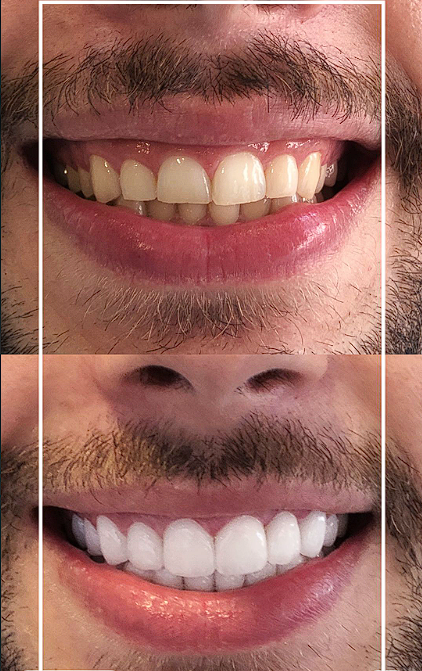
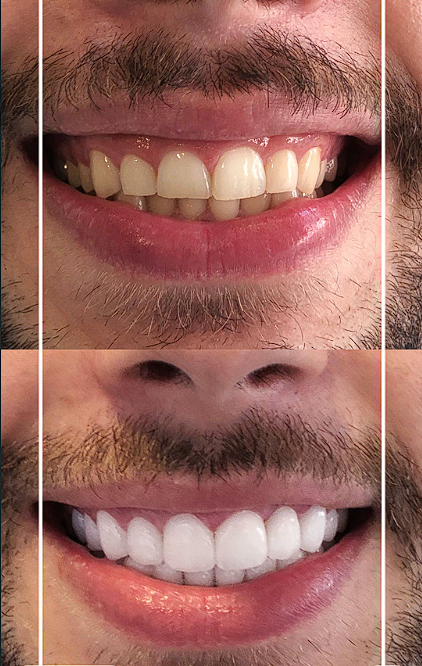
Update membership plan pricing/details and crop smile-transformation photo
- Silver/Gold/Platinum plans updated with new prices and appointment counts
- Added shared plan benefits (joining fee, bitewing x-rays, discount, emergency cover)
- Fixed outdated tiered-discount/priority copy in services.html
- Cropped stray white line from top of smile-transformation.png

diff --git a/index.html b/index.html
@@ -156,7 +156,7 @@
           <span class="text-white/40">•</span>
           <span>Same-day emergency appointments for members</span>
           <span class="text-white/40">•</span>
-          <span>Membership plans from £14.99/month</span>
+          <span>Membership plans from £16/month</span>
           <span class="text-white/40">•</span>
           <span>Rated 4.9★ by our members</span>
           <span class="text-white/40">•</span>
@@ -168,7 +168,7 @@
           <span class="text-white/40">•</span>
           <span>Same-day emergency appointments for members</span>
           <span class="text-white/40">•</span>
-          <span>Membership plans from £14.99/month</span>
+          <span>Membership plans from £16/month</span>
           <span class="text-white/40">•</span>
           <span>Rated 4.9★ by our members</span>
           <span class="text-white/40">•</span>
@@ -247,14 +247,15 @@
         <!-- Silver -->
         <div class="glass-card reveal p-8 flex flex-col">
           <p class="text-xs tracking-[0.2em] uppercase text-blue font-semibold">Silver</p>
-          <p class="mt-3 font-display text-4xl text-navy">£14.99<span class="text-base font-sans font-normal text-ink/50">/month</span></p>
+          <p class="mt-3 font-display text-4xl text-navy">£16<span class="text-base font-sans font-normal text-ink/50">/month</span></p>
           <p class="mt-2 text-sm text-ink/60">Essential preventative care</p>
           <ul class="mt-6 space-y-3 text-sm text-ink/75 flex-1">
-            <li class="flex gap-2.5"><svg width="16" height="16" viewBox="0 0 16 16" fill="none" class="shrink-0 mt-0.5 text-blue"><path d="M3 8.5l3 3 7-7" stroke="currentColor" stroke-width="1.8" stroke-linecap="round" stroke-linejoin="round"/></svg><span>1 dental check-up a year</span></li>
-            <li class="flex gap-2.5"><svg width="16" height="16" viewBox="0 0 16 16" fill="none" class="shrink-0 mt-0.5 text-blue"><path d="M3 8.5l3 3 7-7" stroke="currentColor" stroke-width="1.8" stroke-linecap="round" stroke-linejoin="round"/></svg><span>1 hygienist visit a year</span></li>
-            <li class="flex gap-2.5"><svg width="16" height="16" viewBox="0 0 16 16" fill="none" class="shrink-0 mt-0.5 text-blue"><path d="M3 8.5l3 3 7-7" stroke="currentColor" stroke-width="1.8" stroke-linecap="round" stroke-linejoin="round"/></svg><span>10% off all further treatment</span></li>
-            <li class="flex gap-2.5"><svg width="16" height="16" viewBox="0 0 16 16" fill="none" class="shrink-0 mt-0.5 text-blue"><path d="M3 8.5l3 3 7-7" stroke="currentColor" stroke-width="1.8" stroke-linecap="round" stroke-linejoin="round"/></svg><span>Worldwide dental accident cover</span></li>
-            <li class="flex gap-2.5"><svg width="16" height="16" viewBox="0 0 16 16" fill="none" class="shrink-0 mt-0.5 text-blue"><path d="M3 8.5l3 3 7-7" stroke="currentColor" stroke-width="1.8" stroke-linecap="round" stroke-linejoin="round"/></svg><span>Standard appointment booking</span></li>
+            <li class="flex gap-2.5"><svg width="16" height="16" viewBox="0 0 16 16" fill="none" class="shrink-0 mt-0.5 text-blue"><path d="M3 8.5l3 3 7-7" stroke="currentColor" stroke-width="1.8" stroke-linecap="round" stroke-linejoin="round"/></svg><span>1 hygiene appointment a year</span></li>
+            <li class="flex gap-2.5"><svg width="16" height="16" viewBox="0 0 16 16" fill="none" class="shrink-0 mt-0.5 text-blue"><path d="M3 8.5l3 3 7-7" stroke="currentColor" stroke-width="1.8" stroke-linecap="round" stroke-linejoin="round"/></svg><span>1 check-up appointment a year</span></li>
+            <li class="flex gap-2.5"><svg width="16" height="16" viewBox="0 0 16 16" fill="none" class="shrink-0 mt-0.5 text-blue"><path d="M3 8.5l3 3 7-7" stroke="currentColor" stroke-width="1.8" stroke-linecap="round" stroke-linejoin="round"/></svg><span>£9.50 one-off joining fee</span></li>
+            <li class="flex gap-2.5"><svg width="16" height="16" viewBox="0 0 16 16" fill="none" class="shrink-0 mt-0.5 text-blue"><path d="M3 8.5l3 3 7-7" stroke="currentColor" stroke-width="1.8" stroke-linecap="round" stroke-linejoin="round"/></svg><span>Bitewing x-rays included</span></li>
+            <li class="flex gap-2.5"><svg width="16" height="16" viewBox="0 0 16 16" fill="none" class="shrink-0 mt-0.5 text-blue"><path d="M3 8.5l3 3 7-7" stroke="currentColor" stroke-width="1.8" stroke-linecap="round" stroke-linejoin="round"/></svg><span>10% discount on treatment (excluding implants)</span></li>
+            <li class="flex gap-2.5"><svg width="16" height="16" viewBox="0 0 16 16" fill="none" class="shrink-0 mt-0.5 text-blue"><path d="M3 8.5l3 3 7-7" stroke="currentColor" stroke-width="1.8" stroke-linecap="round" stroke-linejoin="round"/></svg><span>Dental emergency cover, in the UK and worldwide</span></li>
           </ul>
           <a href="contact.html" class="btn btn-outline-navy mt-8 justify-center">Join Silver</a>
         </div>
@@ -263,15 +264,15 @@
         <div class="reveal p-8 flex flex-col rounded-[1.5rem] bg-navy text-cream relative overflow-hidden shadow-navy-lg lg:-translate-y-4">
           <span class="absolute top-0 right-0 bg-brass text-navyDeep text-[0.65rem] font-semibold tracking-[0.1em] uppercase px-4 py-1.5 rounded-bl-xl">Most popular</span>
           <p class="text-xs tracking-[0.2em] uppercase text-brassLight font-semibold">Gold</p>
-          <p class="mt-3 font-display text-4xl text-cream">£24.99<span class="text-base font-sans font-normal text-cream/50">/month</span></p>
+          <p class="mt-3 font-display text-4xl text-cream">£19.60<span class="text-base font-sans font-normal text-cream/50">/month</span></p>
           <p class="mt-2 text-sm text-cream/60">Complete family cover</p>
           <ul class="mt-6 space-y-3 text-sm text-cream/80 flex-1">
-            <li class="flex gap-2.5"><svg width="16" height="16" viewBox="0 0 16 16" fill="none" class="shrink-0 mt-0.5 text-brassLight"><path d="M3 8.5l3 3 7-7" stroke="currentColor" stroke-width="1.8" stroke-linecap="round" stroke-linejoin="round"/></svg><span>2 dental check-ups a year</span></li>
-            <li class="flex gap-2.5"><svg width="16" height="16" viewBox="0 0 16 16" fill="none" class="shrink-0 mt-0.5 text-brassLight"><path d="M3 8.5l3 3 7-7" stroke="currentColor" stroke-width="1.8" stroke-linecap="round" stroke-linejoin="round"/></svg><span>2 hygienist visits a year</span></li>
-            <li class="flex gap-2.5"><svg width="16" height="16" viewBox="0 0 16 16" fill="none" class="shrink-0 mt-0.5 text-brassLight"><path d="M3 8.5l3 3 7-7" stroke="currentColor" stroke-width="1.8" stroke-linecap="round" stroke-linejoin="round"/></svg><span>15% off all further treatment</span></li>
-            <li class="flex gap-2.5"><svg width="16" height="16" viewBox="0 0 16 16" fill="none" class="shrink-0 mt-0.5 text-brassLight"><path d="M3 8.5l3 3 7-7" stroke="currentColor" stroke-width="1.8" stroke-linecap="round" stroke-linejoin="round"/></svg><span>Priority booking within 48 hours</span></li>
-            <li class="flex gap-2.5"><svg width="16" height="16" viewBox="0 0 16 16" fill="none" class="shrink-0 mt-0.5 text-brassLight"><path d="M3 8.5l3 3 7-7" stroke="currentColor" stroke-width="1.8" stroke-linecap="round" stroke-linejoin="round"/></svg><span>1 emergency appointment included</span></li>
-            <li class="flex gap-2.5"><svg width="16" height="16" viewBox="0 0 16 16" fill="none" class="shrink-0 mt-0.5 text-brassLight"><path d="M3 8.5l3 3 7-7" stroke="currentColor" stroke-width="1.8" stroke-linecap="round" stroke-linejoin="round"/></svg><span>Worldwide dental accident cover</span></li>
+            <li class="flex gap-2.5"><svg width="16" height="16" viewBox="0 0 16 16" fill="none" class="shrink-0 mt-0.5 text-brassLight"><path d="M3 8.5l3 3 7-7" stroke="currentColor" stroke-width="1.8" stroke-linecap="round" stroke-linejoin="round"/></svg><span>1 hygiene appointment a year</span></li>
+            <li class="flex gap-2.5"><svg width="16" height="16" viewBox="0 0 16 16" fill="none" class="shrink-0 mt-0.5 text-brassLight"><path d="M3 8.5l3 3 7-7" stroke="currentColor" stroke-width="1.8" stroke-linecap="round" stroke-linejoin="round"/></svg><span>2 check-up appointments a year</span></li>
+            <li class="flex gap-2.5"><svg width="16" height="16" viewBox="0 0 16 16" fill="none" class="shrink-0 mt-0.5 text-brassLight"><path d="M3 8.5l3 3 7-7" stroke="currentColor" stroke-width="1.8" stroke-linecap="round" stroke-linejoin="round"/></svg><span>£9.50 one-off joining fee</span></li>
+            <li class="flex gap-2.5"><svg width="16" height="16" viewBox="0 0 16 16" fill="none" class="shrink-0 mt-0.5 text-brassLight"><path d="M3 8.5l3 3 7-7" stroke="currentColor" stroke-width="1.8" stroke-linecap="round" stroke-linejoin="round"/></svg><span>Bitewing x-rays included</span></li>
+            <li class="flex gap-2.5"><svg width="16" height="16" viewBox="0 0 16 16" fill="none" class="shrink-0 mt-0.5 text-brassLight"><path d="M3 8.5l3 3 7-7" stroke="currentColor" stroke-width="1.8" stroke-linecap="round" stroke-linejoin="round"/></svg><span>10% discount on treatment (excluding implants)</span></li>
+            <li class="flex gap-2.5"><svg width="16" height="16" viewBox="0 0 16 16" fill="none" class="shrink-0 mt-0.5 text-brassLight"><path d="M3 8.5l3 3 7-7" stroke="currentColor" stroke-width="1.8" stroke-linecap="round" stroke-linejoin="round"/></svg><span>Dental emergency cover, in the UK and worldwide</span></li>
           </ul>
           <a href="contact.html" class="btn btn-light mt-8 justify-center">Join Gold</a>
         </div>
@@ -279,16 +280,15 @@
         <!-- Platinum -->
         <div class="glass-card reveal p-8 flex flex-col">
           <p class="text-xs tracking-[0.2em] uppercase text-blue font-semibold">Platinum</p>
-          <p class="mt-3 font-display text-4xl text-navy">£37.99<span class="text-base font-sans font-normal text-ink/50">/month</span></p>
+          <p class="mt-3 font-display text-4xl text-navy">£23.70<span class="text-base font-sans font-normal text-ink/50">/month</span></p>
           <p class="mt-2 text-sm text-ink/60">The complete, unhurried experience</p>
           <ul class="mt-6 space-y-3 text-sm text-ink/75 flex-1">
-            <li class="flex gap-2.5"><svg width="16" height="16" viewBox="0 0 16 16" fill="none" class="shrink-0 mt-0.5 text-blue"><path d="M3 8.5l3 3 7-7" stroke="currentColor" stroke-width="1.8" stroke-linecap="round" stroke-linejoin="round"/></svg><span>2 dental check-ups a year</span></li>
-            <li class="flex gap-2.5"><svg width="16" height="16" viewBox="0 0 16 16" fill="none" class="shrink-0 mt-0.5 text-blue"><path d="M3 8.5l3 3 7-7" stroke="currentColor" stroke-width="1.8" stroke-linecap="round" stroke-linejoin="round"/></svg><span>4 hygienist visits a year</span></li>
-            <li class="flex gap-2.5"><svg width="16" height="16" viewBox="0 0 16 16" fill="none" class="shrink-0 mt-0.5 text-blue"><path d="M3 8.5l3 3 7-7" stroke="currentColor" stroke-width="1.8" stroke-linecap="round" stroke-linejoin="round"/></svg><span>20% off all further treatment, including cosmetic</span></li>
-            <li class="flex gap-2.5"><svg width="16" height="16" viewBox="0 0 16 16" fill="none" class="shrink-0 mt-0.5 text-blue"><path d="M3 8.5l3 3 7-7" stroke="currentColor" stroke-width="1.8" stroke-linecap="round" stroke-linejoin="round"/></svg><span>Same-day emergency priority</span></li>
-            <li class="flex gap-2.5"><svg width="16" height="16" viewBox="0 0 16 16" fill="none" class="shrink-0 mt-0.5 text-blue"><path d="M3 8.5l3 3 7-7" stroke="currentColor" stroke-width="1.8" stroke-linecap="round" stroke-linejoin="round"/></svg><span>Annual smile assessment &amp; whitening touch-up</span></li>
-            <li class="flex gap-2.5"><svg width="16" height="16" viewBox="0 0 16 16" fill="none" class="shrink-0 mt-0.5 text-blue"><path d="M3 8.5l3 3 7-7" stroke="currentColor" stroke-width="1.8" stroke-linecap="round" stroke-linejoin="round"/></svg><span>Direct line to the practice manager</span></li>
-            <li class="flex gap-2.5"><svg width="16" height="16" viewBox="0 0 16 16" fill="none" class="shrink-0 mt-0.5 text-blue"><path d="M3 8.5l3 3 7-7" stroke="currentColor" stroke-width="1.8" stroke-linecap="round" stroke-linejoin="round"/></svg><span>Worldwide dental accident cover</span></li>
+            <li class="flex gap-2.5"><svg width="16" height="16" viewBox="0 0 16 16" fill="none" class="shrink-0 mt-0.5 text-blue"><path d="M3 8.5l3 3 7-7" stroke="currentColor" stroke-width="1.8" stroke-linecap="round" stroke-linejoin="round"/></svg><span>2 hygiene appointments a year</span></li>
+            <li class="flex gap-2.5"><svg width="16" height="16" viewBox="0 0 16 16" fill="none" class="shrink-0 mt-0.5 text-blue"><path d="M3 8.5l3 3 7-7" stroke="currentColor" stroke-width="1.8" stroke-linecap="round" stroke-linejoin="round"/></svg><span>2 check-up appointments a year</span></li>
+            <li class="flex gap-2.5"><svg width="16" height="16" viewBox="0 0 16 16" fill="none" class="shrink-0 mt-0.5 text-blue"><path d="M3 8.5l3 3 7-7" stroke="currentColor" stroke-width="1.8" stroke-linecap="round" stroke-linejoin="round"/></svg><span>£9.50 one-off joining fee</span></li>
+            <li class="flex gap-2.5"><svg width="16" height="16" viewBox="0 0 16 16" fill="none" class="shrink-0 mt-0.5 text-blue"><path d="M3 8.5l3 3 7-7" stroke="currentColor" stroke-width="1.8" stroke-linecap="round" stroke-linejoin="round"/></svg><span>Bitewing x-rays included</span></li>
+            <li class="flex gap-2.5"><svg width="16" height="16" viewBox="0 0 16 16" fill="none" class="shrink-0 mt-0.5 text-blue"><path d="M3 8.5l3 3 7-7" stroke="currentColor" stroke-width="1.8" stroke-linecap="round" stroke-linejoin="round"/></svg><span>10% discount on treatment (excluding implants)</span></li>
+            <li class="flex gap-2.5"><svg width="16" height="16" viewBox="0 0 16 16" fill="none" class="shrink-0 mt-0.5 text-blue"><path d="M3 8.5l3 3 7-7" stroke="currentColor" stroke-width="1.8" stroke-linecap="round" stroke-linejoin="round"/></svg><span>Dental emergency cover, in the UK and worldwide</span></li>
           </ul>
           <a href="contact.html" class="btn btn-outline-navy mt-8 justify-center">Join Platinum</a>
         </div>

diff --git a/services.html b/services.html
@@ -154,7 +154,7 @@
           <li class="flex items-start gap-3"><span class="mt-2 w-1.5 h-1.5 rounded-full bg-blue shrink-0"></span><span><strong class="text-navy font-medium">Porcelain veneers</strong> — thin, natural-looking shells to reshape or brighten your smile.</span></li>
           <li class="flex items-start gap-3"><span class="mt-2 w-1.5 h-1.5 rounded-full bg-blue shrink-0"></span><span><strong class="text-navy font-medium">Clear aligners</strong> — discreet, removable teeth straightening for adults and teens.</span></li>
           <li class="flex items-start gap-3"><span class="mt-2 w-1.5 h-1.5 rounded-full bg-blue shrink-0"></span><span><strong class="text-navy font-medium">Composite bonding</strong> — same-day reshaping for chips, gaps and worn edges.</span></li>
-          <li class="flex items-start gap-3"><span class="mt-2 w-1.5 h-1.5 rounded-full bg-blue shrink-0"></span><span><strong class="text-navy font-medium">Full smile makeovers</strong> — a considered plan combining treatments over time, with Platinum members saving the most.</span></li>
+          <li class="flex items-start gap-3"><span class="mt-2 w-1.5 h-1.5 rounded-full bg-blue shrink-0"></span><span><strong class="text-navy font-medium">Full smile makeovers</strong> — a considered plan combining treatments over time, at your 10% member discount.</span></li>
         </ul>
 
         <div class="mt-7 reveal rounded-2xl bg-white shadow-navy-sm ring-1 ring-navy/10 p-6">
@@ -209,7 +209,7 @@
           <h2 class="font-display text-3xl sm:text-4xl -tracking-[0.02em] text-navy leading-tight">Emergency Appointments</h2>
         </div>
       </div>
-      <p class="mt-6 text-ink/75 leading-[1.7] reveal">Dental pain rarely waits for a convenient time, and we know how frightening it can feel. Members can call before 11am and we'll do everything we can to see you the same day, with warmth and reassurance every step of the way — Gold and Platinum members get priority.</p>
+      <p class="mt-6 text-ink/75 leading-[1.7] reveal">Dental pain rarely waits for a convenient time, and we know how frightening it can feel. Members can call before 11am and we'll do everything we can to see you the same day, with warmth and reassurance every step of the way. Your emergency cover travels with you too — if it happens while you're abroad, we'll help find you a dental practice and cover part of the cost.</p>
       <ul class="mt-7 space-y-3 reveal">
         <li class="flex items-start gap-3"><span class="mt-2 w-1.5 h-1.5 rounded-full bg-blue shrink-0"></span><span><strong class="text-navy font-medium">Toothache &amp; infections</strong> — fast diagnosis and pain relief.</span></li>
         <li class="flex items-start gap-3"><span class="mt-2 w-1.5 h-1.5 rounded-full bg-blue shrink-0"></span><span><strong class="text-navy font-medium">Chipped or broken teeth</strong> — same-day repairs wherever possible.</span></li>